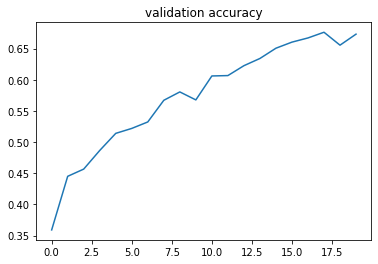
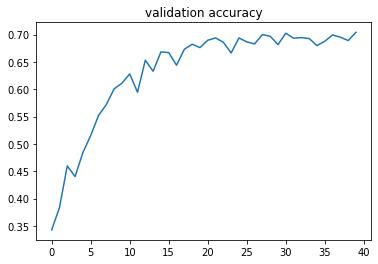
added tqdm, saved best model and validated with user friendly data

diff --git a/_posts/2019-06-20-PyTorch-RNN.md b/_posts/2019-06-20-PyTorch-RNN.md
@@ -19,6 +19,7 @@ import numpy as np
 import pandas as pd
 from torch.utils.data import Dataset, DataLoader
 from argparse import Namespace
+from tqdm import tqdm
 ```
 
 ### Create RNN layer using RNNCell
@@ -96,6 +97,7 @@ class Vectorizer():
         self.nationality_vocabulary = nationality_vocabulary
     
     def vectorize(self, surname, vector_length = -1):
+        surname = surname.lower()
         indices = [self.surname_vocabulary.start_index]
         
         #TODO: handle unknown token
@@ -122,6 +124,7 @@ class Vectorizer():
         nationality_vocabulary = Vocabulary()
         
         for surname in surnames:
+            surname = surname.lower()
             for char in surname:
                 surname_vocabulary.add_token(char)
         
@@ -197,15 +200,16 @@ class SurnameDataset(Dataset):
 
 ```python
 args = Namespace(
-    surname_csv = r'data\surname\surnames_split_krishan.csv', #change this path
-    epochs = 20,
+    surname_csv = r'data\surname\surnames_split_krishan.csv',
+    epochs = 40,
     lr = 0.03,
     loss = nn.CrossEntropyLoss,
     max_surname_len = 15,
     hidden_size = 64,
-    embedding_size = 16
+    embedding_size = 16,
+    model_file = 'rnn_model.pkl'
 )
-
+df = pd.read_csv(args.surname_csv)
 #Find 95th percentile length 
 lengths = df[df['split'] == 'train']['surname'].apply(lambda x: len(x))
 print('lengths of surnames =\n',lengths.describe())
@@ -232,7 +236,7 @@ args.max_surname_len = _95thperc
 
 
 ```python
-df = pd.read_csv(args.surname_csv)
+
 dataset = SurnameDataset.from_df(df)
 train_dataloader = DataLoader(dataset,32,True)
 
@@ -243,7 +247,7 @@ print ('tokens = {}, classes = {}'.format(num_tokens,num_classes ))
 df.sample(5)
 ```
 
-    tokens = 88, classes = 18
+    tokens = 59, classes = 18
     
 
 
@@ -274,34 +278,34 @@ df.sample(5)
   </thead>
   <tbody>
     <tr>
-      <th>9327</th>
-      <td>Irish</td>
-      <td>val</td>
-      <td>Cleirigh</td>
-    </tr>
-    <tr>
-      <th>8053</th>
-      <td>Chinese</td>
-      <td>train</td>
-      <td>Chew</td>
-    </tr>
-    <tr>
-      <th>10331</th>
-      <td>Spanish</td>
+      <th>2922</th>
+      <td>English</td>
       <td>test</td>
-      <td>Félix</td>
+      <td>Renshaw</td>
     </tr>
     <tr>
-      <th>5045</th>
+      <th>7833</th>
+      <td>Japanese</td>
+      <td>val</td>
+      <td>Takaoka</td>
+    </tr>
+    <tr>
+      <th>3715</th>
+      <td>Arabic</td>
+      <td>train</td>
+      <td>Arian</td>
+    </tr>
+    <tr>
+      <th>8269</th>
+      <td>Italian</td>
+      <td>train</td>
+      <td>Serafini</td>
+    </tr>
+    <tr>
+      <th>4808</th>
       <td>Russian</td>
       <td>train</td>
-      <td>Pitaevsky</td>
-    </tr>
-    <tr>
-      <th>7498</th>
-      <td>Japanese</td>
-      <td>train</td>
-      <td>Hyobanshi</td>
+      <td>Chehluev</td>
     </tr>
   </tbody>
 </table>
@@ -399,8 +403,8 @@ model = SurnameRNNClassifier(num_tokens, num_classes )
 print(model)
 optimizer = torch.optim.SGD(model.parameters(),lr = args.lr)
 train_losses, val_losses, val_accs = [],[],[]
-
-for epoch in range(args.epochs):
+max_acc = 0
+for epoch in tqdm(range(args.epochs)):
     losses = []
     for data in train_dataloader:
         x = data['x']
@@ -420,38 +424,25 @@ for epoch in range(args.epochs):
     val_loss, val_acc = calculate_loss_acc(dataset, model)
     val_losses.append(val_loss)
     val_accs.append(val_acc)
-    print('epoch {} : train_loss {}, val_loss {}, val_acc {}'.format(epoch
-          ,train_losses[-1],val_losses[-1],val_accs[-1]))
+    
+    if (val_acc > max_acc):
+        max_acc = val_acc
+        torch.save(model.state_dict(),args.model_file)
+    #print('epoch {} : train_loss {}, val_loss {}, val_acc {}'.format(epoch
+    #      ,train_losses[-1],val_losses[-1],val_accs[-1]))
 ```
 
     SurnameRNNClassifier(
-      (embedding): Embedding(88, 16, padding_idx=1)
+      (embedding): Embedding(59, 16, padding_idx=1)
       (rnn): ElmanRNN(
         (rnncell): RNNCell(16, 64)
       )
       (linear): Linear(in_features=64, out_features=18, bias=True)
       (dropout): Dropout(p=0.1)
     )
-    epoch 0 : train_loss 2.2965063979228337, val_loss 2.142411273259383, val_acc 0.3591463414634146
-    epoch 1 : train_loss 2.050973414381345, val_loss 1.9430594260875995, val_acc 0.4451219512195122
-    epoch 2 : train_loss 1.907807615896066, val_loss 1.8554594562603877, val_acc 0.45670731707317075
-    epoch 3 : train_loss 1.8028959915041924, val_loss 1.7653987591083233, val_acc 0.4865853658536585
-    epoch 4 : train_loss 1.7090267524123193, val_loss 1.6766792031434865, val_acc 0.5140243902439025
-    epoch 5 : train_loss 1.6379290473957857, val_loss 1.6299713666622455, val_acc 0.5219512195121951
-    epoch 6 : train_loss 1.5674623471995195, val_loss 1.5803549518952003, val_acc 0.5323170731707317
-    epoch 7 : train_loss 1.5027624413371086, val_loss 1.508364567389855, val_acc 0.5670731707317073
-    epoch 8 : train_loss 1.4425324335694314, val_loss 1.4327852405034578, val_acc 0.5804878048780487
-    epoch 9 : train_loss 1.382294626533985, val_loss 1.4343391840274518, val_acc 0.5676829268292682
-    epoch 10 : train_loss 1.325134468326966, val_loss 1.3726348556005037, val_acc 0.6060975609756097
-    epoch 11 : train_loss 1.2833637627462546, val_loss 1.3074743701861455, val_acc 0.6067073170731707
-    epoch 12 : train_loss 1.2457967475056648, val_loss 1.2868399597131288, val_acc 0.6225609756097561
-    epoch 13 : train_loss 1.2039708423117796, val_loss 1.2699937522411346, val_acc 0.6341463414634146
-    epoch 14 : train_loss 1.1685669176280498, val_loss 1.2110394858396971, val_acc 0.650609756097561
-    epoch 15 : train_loss 1.1382594662408034, val_loss 1.2288372333233173, val_acc 0.6603658536585366
-    epoch 16 : train_loss 1.1155679715176423, val_loss 1.1853035642550542, val_acc 0.6670731707317074
-    epoch 17 : train_loss 1.0854565724730492, val_loss 1.141878836430036, val_acc 0.676219512195122
-    epoch 18 : train_loss 1.0628218047320843, val_loss 1.181883229659154, val_acc 0.6554878048780488
-    epoch 19 : train_loss 1.037904354929924, val_loss 1.1669966051211724, val_acc 0.6731707317073171
+    
+
+    100%|██████████████████████████████████████████████████████████████████████████████████| 40/40 [02:25<00:00,  3.82s/it]
     
 
 
@@ -472,11 +463,74 @@ pp.show()
 ![loss](/assets/rnn/loss.png)
 ![acc](/assets/rnn/acc.png)
 
+
 ```python
+#Fetch best model
+model.load_state_dict(torch.load(args.model_file))
+val_loss,val_acc = calculate_loss_acc(dataset,model,'val')
+print('val loss and acc = ', val_loss,val_acc)
+
 test_loss,test_acc = calculate_loss_acc(dataset,model,'test')
-test_loss,test_acc
+print('test loss and acc = ', test_loss,test_acc)
 ```
 
-    (1.2183352983914888, 0.6608433734939759)
+    val loss and acc =  1.0600555860079253 0.7042682926829268
+    test loss and acc =  1.1671412655940423 0.6825301204819277
+    
 
 
+```python
+def predict(surname):
+    model.eval()
+    x = torch.LongTensor(dataset.vectorizer.vectorize(surname)).view(1,-1)
+    oindex = torch.argmax(model(x)).item()
+    
+    nationality = dataset.vectorizer.nationality_vocabulary.idx_to_token[oindex]
+    #print ('Nationality for {} is predicted as {}'.format(surname, nationality))
+    return nationality
+```
+
+
+```python
+predict('Subudhi')
+```
+
+
+
+
+    'Japanese'
+
+
+
+
+```python
+count = 0
+total_count = 10
+
+for i in np.random.randint(0, len(df),(total_count,)):
+    row = df.iloc[i]
+    isSame = row['nationality'] == predict(row['surname'])
+    print('surname = {: <15}, original = {: <10}, predicted = {: <10}, Correct = {}'
+          .format(row['surname'], row['nationality'], predict(row['surname']),isSame))
+    if isSame:
+        count += 1
+print('acc = ',count/total_count)
+```
+
+    surname = Stevenson      , original = Scottish  , predicted = English   , Correct = False
+    surname = Ughi           , original = Italian   , predicted = Japanese  , Correct = False
+    surname = Kartoziya      , original = Russian   , predicted = Japanese  , Correct = False
+    surname = Issa           , original = Arabic    , predicted = Japanese  , Correct = False
+    surname = Webb           , original = English   , predicted = German    , Correct = False
+    surname = Shadid         , original = Arabic    , predicted = English   , Correct = False
+    surname = Yuferev        , original = Russian   , predicted = Russian   , Correct = True
+    surname = Stroud         , original = English   , predicted = English   , Correct = True
+    surname = Paterson       , original = English   , predicted = English   , Correct = True
+    surname = Idane          , original = Japanese  , predicted = Japanese  , Correct = True
+    acc =  0.4
+    
+
+
+```python
+
+```
